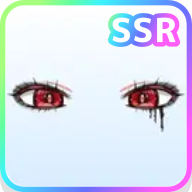
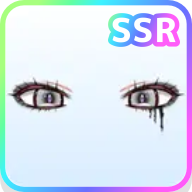
Update 闇へと誘う吸血姫 gacha

Changed region(s): [[0.6562, 0.4375, 0.8438, 0.5625], [0.1562, 0.4375, 0.3438, 0.5625], [0.7812, 0.5938, 0.8125, 0.625]]

diff --git a/src/data/gachas/kyuketsuki.js b/src/data/gachas/kyuketsuki.js
@@ -10,28 +10,196 @@ const gacha = {
   endDate: '2026/08/14 14:59',
   description: '闇へと誘う吸血姫の限定ガチャです。',
   items: [
-    { id: 'kyuketsuki-uchiki-kyuketsuki-chan', rarity: 'SSR', category: '衣装', name: '内気吸血鬼ちゃん', image: '/images/items/kyuketsuki/01.png' },
-    { id: 'kyuketsuki-hanayaka-tsurime-pink', rarity: 'SSR', category: '目', name: '華やかなつり目(ピンク)', image: '/images/items/kyuketsuki/02.png' },
-    { id: 'kyuketsuki-hanayaka-tsurime-white', rarity: 'SSR', category: '目', name: '華やかなつり目(白)', image: '/images/items/kyuketsuki/03.png' },
-    { id: 'kyuketsuki-ketsuen-hitomi-white', rarity: 'SSR', category: '目', name: '血宴の瞳(白)', image: '/images/items/kyuketsuki/04.png' },
-    { id: 'kyuketsuki-ketsuen-hitomi-red', rarity: 'SSR', category: '目', name: '血宴の瞳(赤)', image: '/images/items/kyuketsuki/05.png' },
-    { id: 'kyuketsuki-inner-long-hair-white', rarity: 'SSR', category: '髪型', name: 'インナーロングヘア(白)', image: '/images/items/kyuketsuki/06.png' },
-    { id: 'kyuketsuki-inner-long-hair-red', rarity: 'SSR', category: '髪型', name: 'インナーロングヘア(赤)', image: '/images/items/kyuketsuki/07.png' },
-    { id: 'kyuketsuki-komori-tsuno', rarity: 'SR', category: 'あたま', name: '吸血鬼のコウモリツノ', image: '/images/items/kyuketsuki/08.png' },
-    { id: 'kyuketsuki-ribbon-tsuno', rarity: 'SR', category: 'あたま', name: '吸血鬼のリボンツノ', image: '/images/items/kyuketsuki/09.png' },
-    { id: 'kyuketsuki-pastel-ohana-ribbon', rarity: 'SR', category: 'あたま', name: 'パステルお花リボン', image: '/images/items/kyuketsuki/10.png' },
-    { id: 'kyuketsuki-ojosama-headdress', rarity: 'SR', category: 'あたま', name: 'お嬢様吸血鬼のヘッドドレス', image: '/images/items/kyuketsuki/11.png' },
-    { id: 'kyuketsuki-ojosama-onepiece', rarity: 'SR', category: '衣装', name: 'お嬢様吸血鬼ワンピ', image: '/images/items/kyuketsuki/12.png' },
-    { id: 'kyuketsuki-bachibachi-pierce-mimi', rarity: 'SR', category: 'ピアス', name: 'ばちばちピアスの吸血鬼耳', image: '/images/items/kyuketsuki/13.png' },
-    { id: 'kyuketsuki-cross-pierce-mimi', rarity: 'SR', category: 'ピアス', name: '十字架ピアスの吸血鬼耳', image: '/images/items/kyuketsuki/14.png' },
-    { id: 'kyuketsuki-kyuketsuki-mimi', rarity: 'SR', category: 'ピアス', name: '吸血鬼耳', image: '/images/items/kyuketsuki/15.png' },
-    { id: 'kyuketsuki-cross-highlight-neko-red', rarity: 'SR', category: '目', name: '十字架ハイライト 猫目(赤)', image: '/images/items/kyuketsuki/16.png' },
-    { id: 'kyuketsuki-cross-highlight-neko-pink', rarity: 'SR', category: '目', name: '十字架ハイライト 猫目(ピンク)', image: '/images/items/kyuketsuki/17.png' },
-    { id: 'kyuketsuki-bloody-castle', rarity: 'SR', category: 'チェキフレーム', name: 'ブラッディキャッスル', image: '/images/items/kyuketsuki/18.png' },
-    { id: 'kyuketsuki-vampire-princess', rarity: 'SR', category: 'チェキフレーム', name: 'ヴァンパイアプリンセス', image: '/images/items/kyuketsuki/19.png' },
-    { id: 'kyuketsuki-chi-succhauyo', rarity: 'SR', category: 'チェキフレーム', name: '血吸っちゃうよ?', image: '/images/items/kyuketsuki/20.png' },
-    { id: 'kyuketsuki-dokuringo-batake', rarity: 'SR', category: '背景', name: '毒林檎畑', image: '/images/items/kyuketsuki/21.png' },
-    { id: 'kyuketsuki-vampire-castle-hall', rarity: 'SR', category: '背景', name: 'ヴァンパイア城の廊下', image: '/images/items/kyuketsuki/22.png' },
+    {
+      id: 'kyuketsuki-vampire-bontage',
+      rarity: 'SSR',
+      category: '衣装',
+      name: 'ヴァンパイアボンテージ',
+      image: '/images/items/kyuketsuki/01.png',
+    },
+    {
+      id: 'kyuketsuki-uchiki-kyuketsuki-chan',
+      rarity: 'SSR',
+      category: '衣装',
+      name: '内気吸血鬼ちゃん',
+      image: '/images/items/kyuketsuki/02.png',
+    },
+    {
+      id: 'kyuketsuki-hanayaka-tsurime-pink',
+      rarity: 'SSR',
+      category: '目',
+      name: '華やかなつり目(ピンク)',
+      image: '/images/items/kyuketsuki/03.png',
+    },
+    {
+      id: 'kyuketsuki-hanayaka-tsurime-white',
+      rarity: 'SSR',
+      category: '目',
+      name: '華やかなつり目(白)',
+      image: '/images/items/kyuketsuki/04.png',
+    },
+    {
+      id: 'kyuketsuki-ketsuen-hitomi-white',
+      rarity: 'SSR',
+      category: '目',
+      name: '血宴の瞳(白)',
+      image: '/images/items/kyuketsuki/05.png',
+    },
+    {
+      id: 'kyuketsuki-ketsuen-hitomi-red',
+      rarity: 'SSR',
+      category: '目',
+      name: '血宴の瞳(赤)',
+      image: '/images/items/kyuketsuki/06.png',
+    },
+    {
+      id: 'kyuketsuki-new-02',
+      rarity: 'SSR',
+      category: '髪型',
+      name: 'まぢ病み♡ついんてーる(金)',
+      image: '/images/items/kyuketsuki/07.png',
+    },
+    {
+      id: 'kyuketsuki-new-03',
+      rarity: 'SSR',
+      category: '髪型',
+      name: 'まぢ病み♡ついんてーる(白赤)',
+      hasMotion: true,
+      image: '/images/items/kyuketsuki/08.png',
+    },
+    {
+      id: 'kyuketsuki-inner-long-hair-white',
+      rarity: 'SSR',
+      category: '髪型',
+      name: 'インナーロングヘア(白)',
+      image: '/images/items/kyuketsuki/09.png',
+    },
+    {
+      id: 'kyuketsuki-inner-long-hair-red',
+      rarity: 'SSR',
+      category: '髪型',
+      name: 'インナーロングヘア(赤)',
+      image: '/images/items/kyuketsuki/10.png',
+    },
+    {
+      id: 'kyuketsuki-new-04',
+      rarity: 'SSR',
+      category: '髪型',
+      name: 'さらさら内気ロング(黒)',
+      image: '/images/items/kyuketsuki/11.png',
+    },
+    {
+      id: 'kyuketsuki-new-05',
+      rarity: 'SSR',
+      category: '髪型',
+      name: 'さらさら内気ロング(紫)',
+      image: '/images/items/kyuketsuki/12.png',
+    },
+    {
+      id: 'kyuketsuki-komori-tsuno',
+      rarity: 'SR',
+      category: 'あたま',
+      name: '吸血鬼のコウモリツノ',
+      image: '/images/items/kyuketsuki/13.png',
+    },
+    {
+      id: 'kyuketsuki-ribbon-tsuno',
+      rarity: 'SR',
+      category: 'あたま',
+      name: '吸血鬼のリボンツノ',
+      image: '/images/items/kyuketsuki/14.png',
+    },
+    {
+      id: 'kyuketsuki-pastel-ohana-ribbon',
+      rarity: 'SR',
+      category: 'あたま',
+      name: 'パステルお花リボン',
+      image: '/images/items/kyuketsuki/15.png',
+    },
+    {
+      id: 'kyuketsuki-ojosama-headdress',
+      rarity: 'SR',
+      category: 'あたま',
+      name: 'お嬢様吸血鬼のヘッドドレス',
+      image: '/images/items/kyuketsuki/16.png',
+    },
+    {
+      id: 'kyuketsuki-ojosama-onepiece',
+      rarity: 'SR',
+      category: '衣装',
+      name: 'お嬢様吸血鬼ワンピ',
+      image: '/images/items/kyuketsuki/17.png',
+    },
+    {
+      id: 'kyuketsuki-bachibachi-pierce-mimi',
+      rarity: 'SR',
+      category: 'ピアス',
+      name: 'ばちばちピアスの吸血鬼耳',
+      image: '/images/items/kyuketsuki/18.png',
+    },
+    {
+      id: 'kyuketsuki-cross-pierce-mimi',
+      rarity: 'SR',
+      category: 'ピアス',
+      name: '十字架ピアスの吸血鬼耳',
+      image: '/images/items/kyuketsuki/19.png',
+    },
+    {
+      id: 'kyuketsuki-kyuketsuki-mimi',
+      rarity: 'SR',
+      category: 'ピアス',
+      name: '吸血鬼耳',
+      image: '/images/items/kyuketsuki/20.png',
+    },
+    {
+      id: 'kyuketsuki-cross-highlight-neko-red',
+      rarity: 'SR',
+      category: '目',
+      name: '十字架ハイライト 猫目(赤)',
+      image: '/images/items/kyuketsuki/21.png',
+    },
+    {
+      id: 'kyuketsuki-cross-highlight-neko-pink',
+      rarity: 'SR',
+      category: '目',
+      name: '十字架ハイライト 猫目(ピンク)',
+      image: '/images/items/kyuketsuki/22.png',
+    },
+    {
+      id: 'kyuketsuki-bloody-castle',
+      rarity: 'SR',
+      category: 'チェキフレーム',
+      name: 'ブラッディキャッスル',
+      image: '/images/items/kyuketsuki/23.png',
+    },
+    {
+      id: 'kyuketsuki-vampire-princess',
+      rarity: 'SR',
+      category: 'チェキフレーム',
+      name: 'ヴァンパイアプリンセス',
+      image: '/images/items/kyuketsuki/24.png',
+    },
+    {
+      id: 'kyuketsuki-chi-succhauyo',
+      rarity: 'SR',
+      category: 'チェキフレーム',
+      name: '血吸っちゃうよ?',
+      image: '/images/items/kyuketsuki/25.png',
+    },
+    {
+      id: 'kyuketsuki-dokuringo-batake',
+      rarity: 'SR',
+      category: '背景',
+      name: '毒林檎畑',
+      image: '/images/items/kyuketsuki/26.png',
+    },
+    {
+      id: 'kyuketsuki-vampire-castle-hall',
+      rarity: 'SR',
+      category: '背景',
+      name: 'ヴァンパイア城の廊下',
+      image: '/images/items/kyuketsuki/27.png',
+    },
   ],
 }
 
